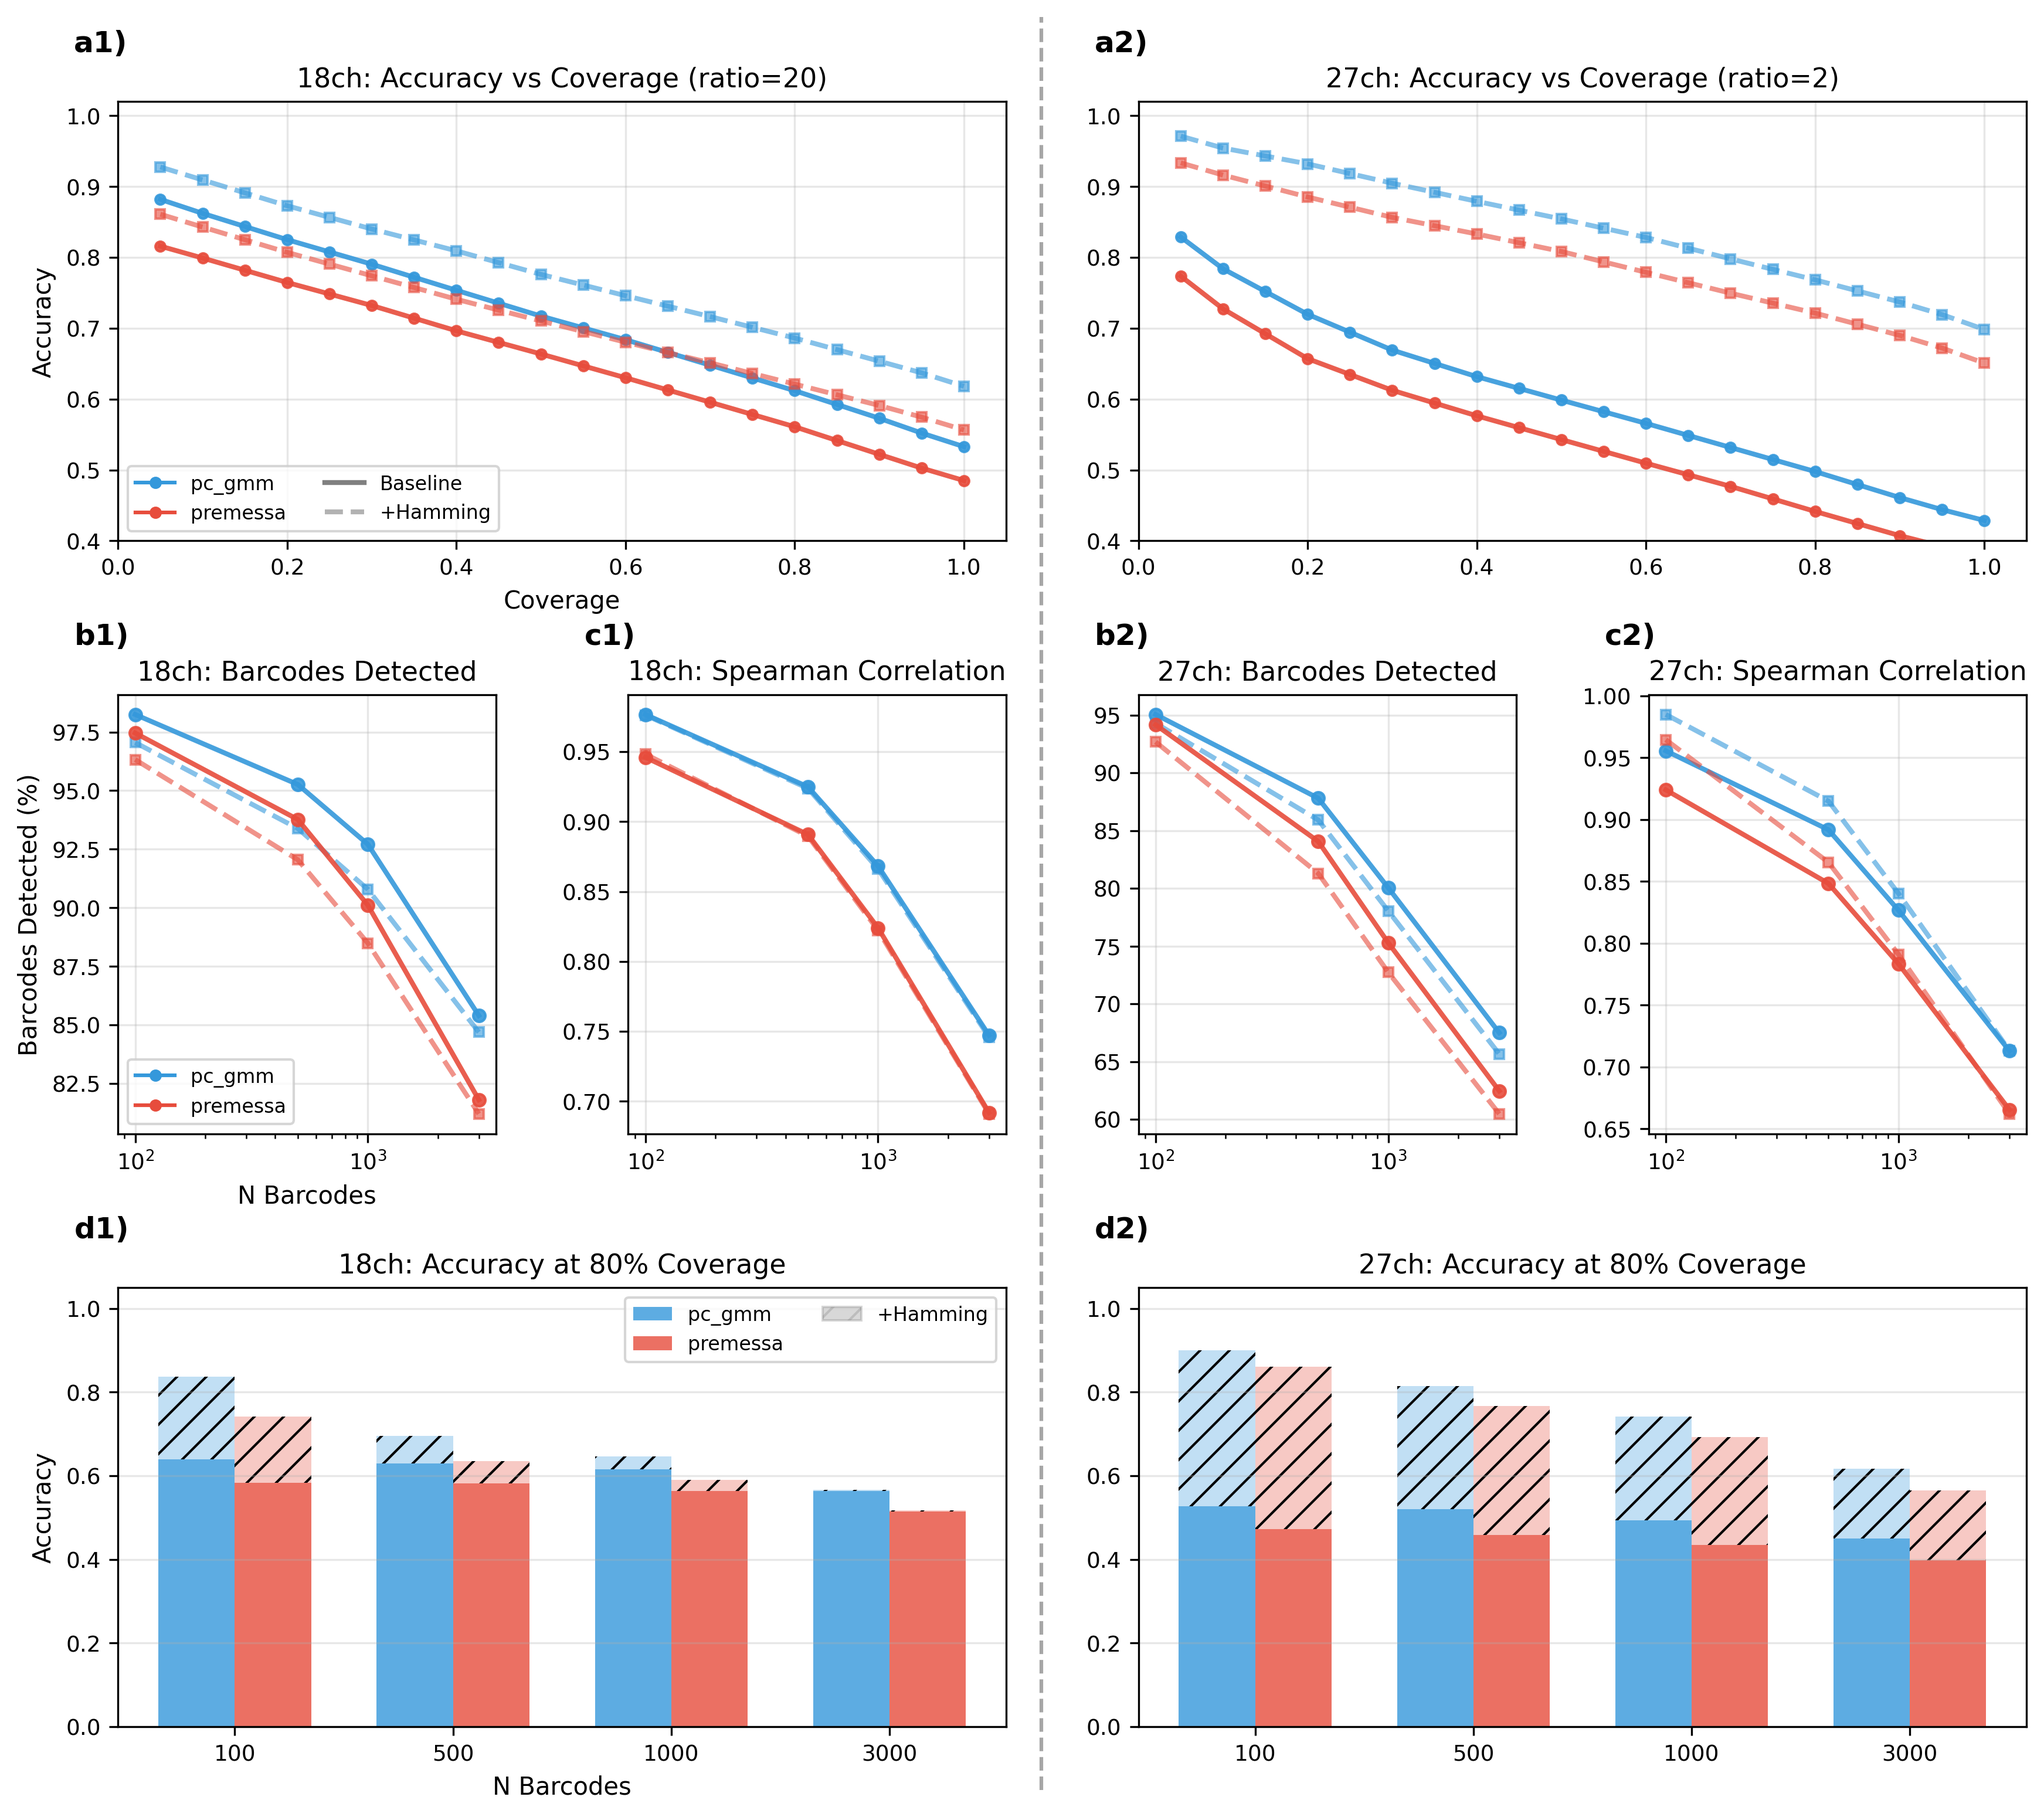
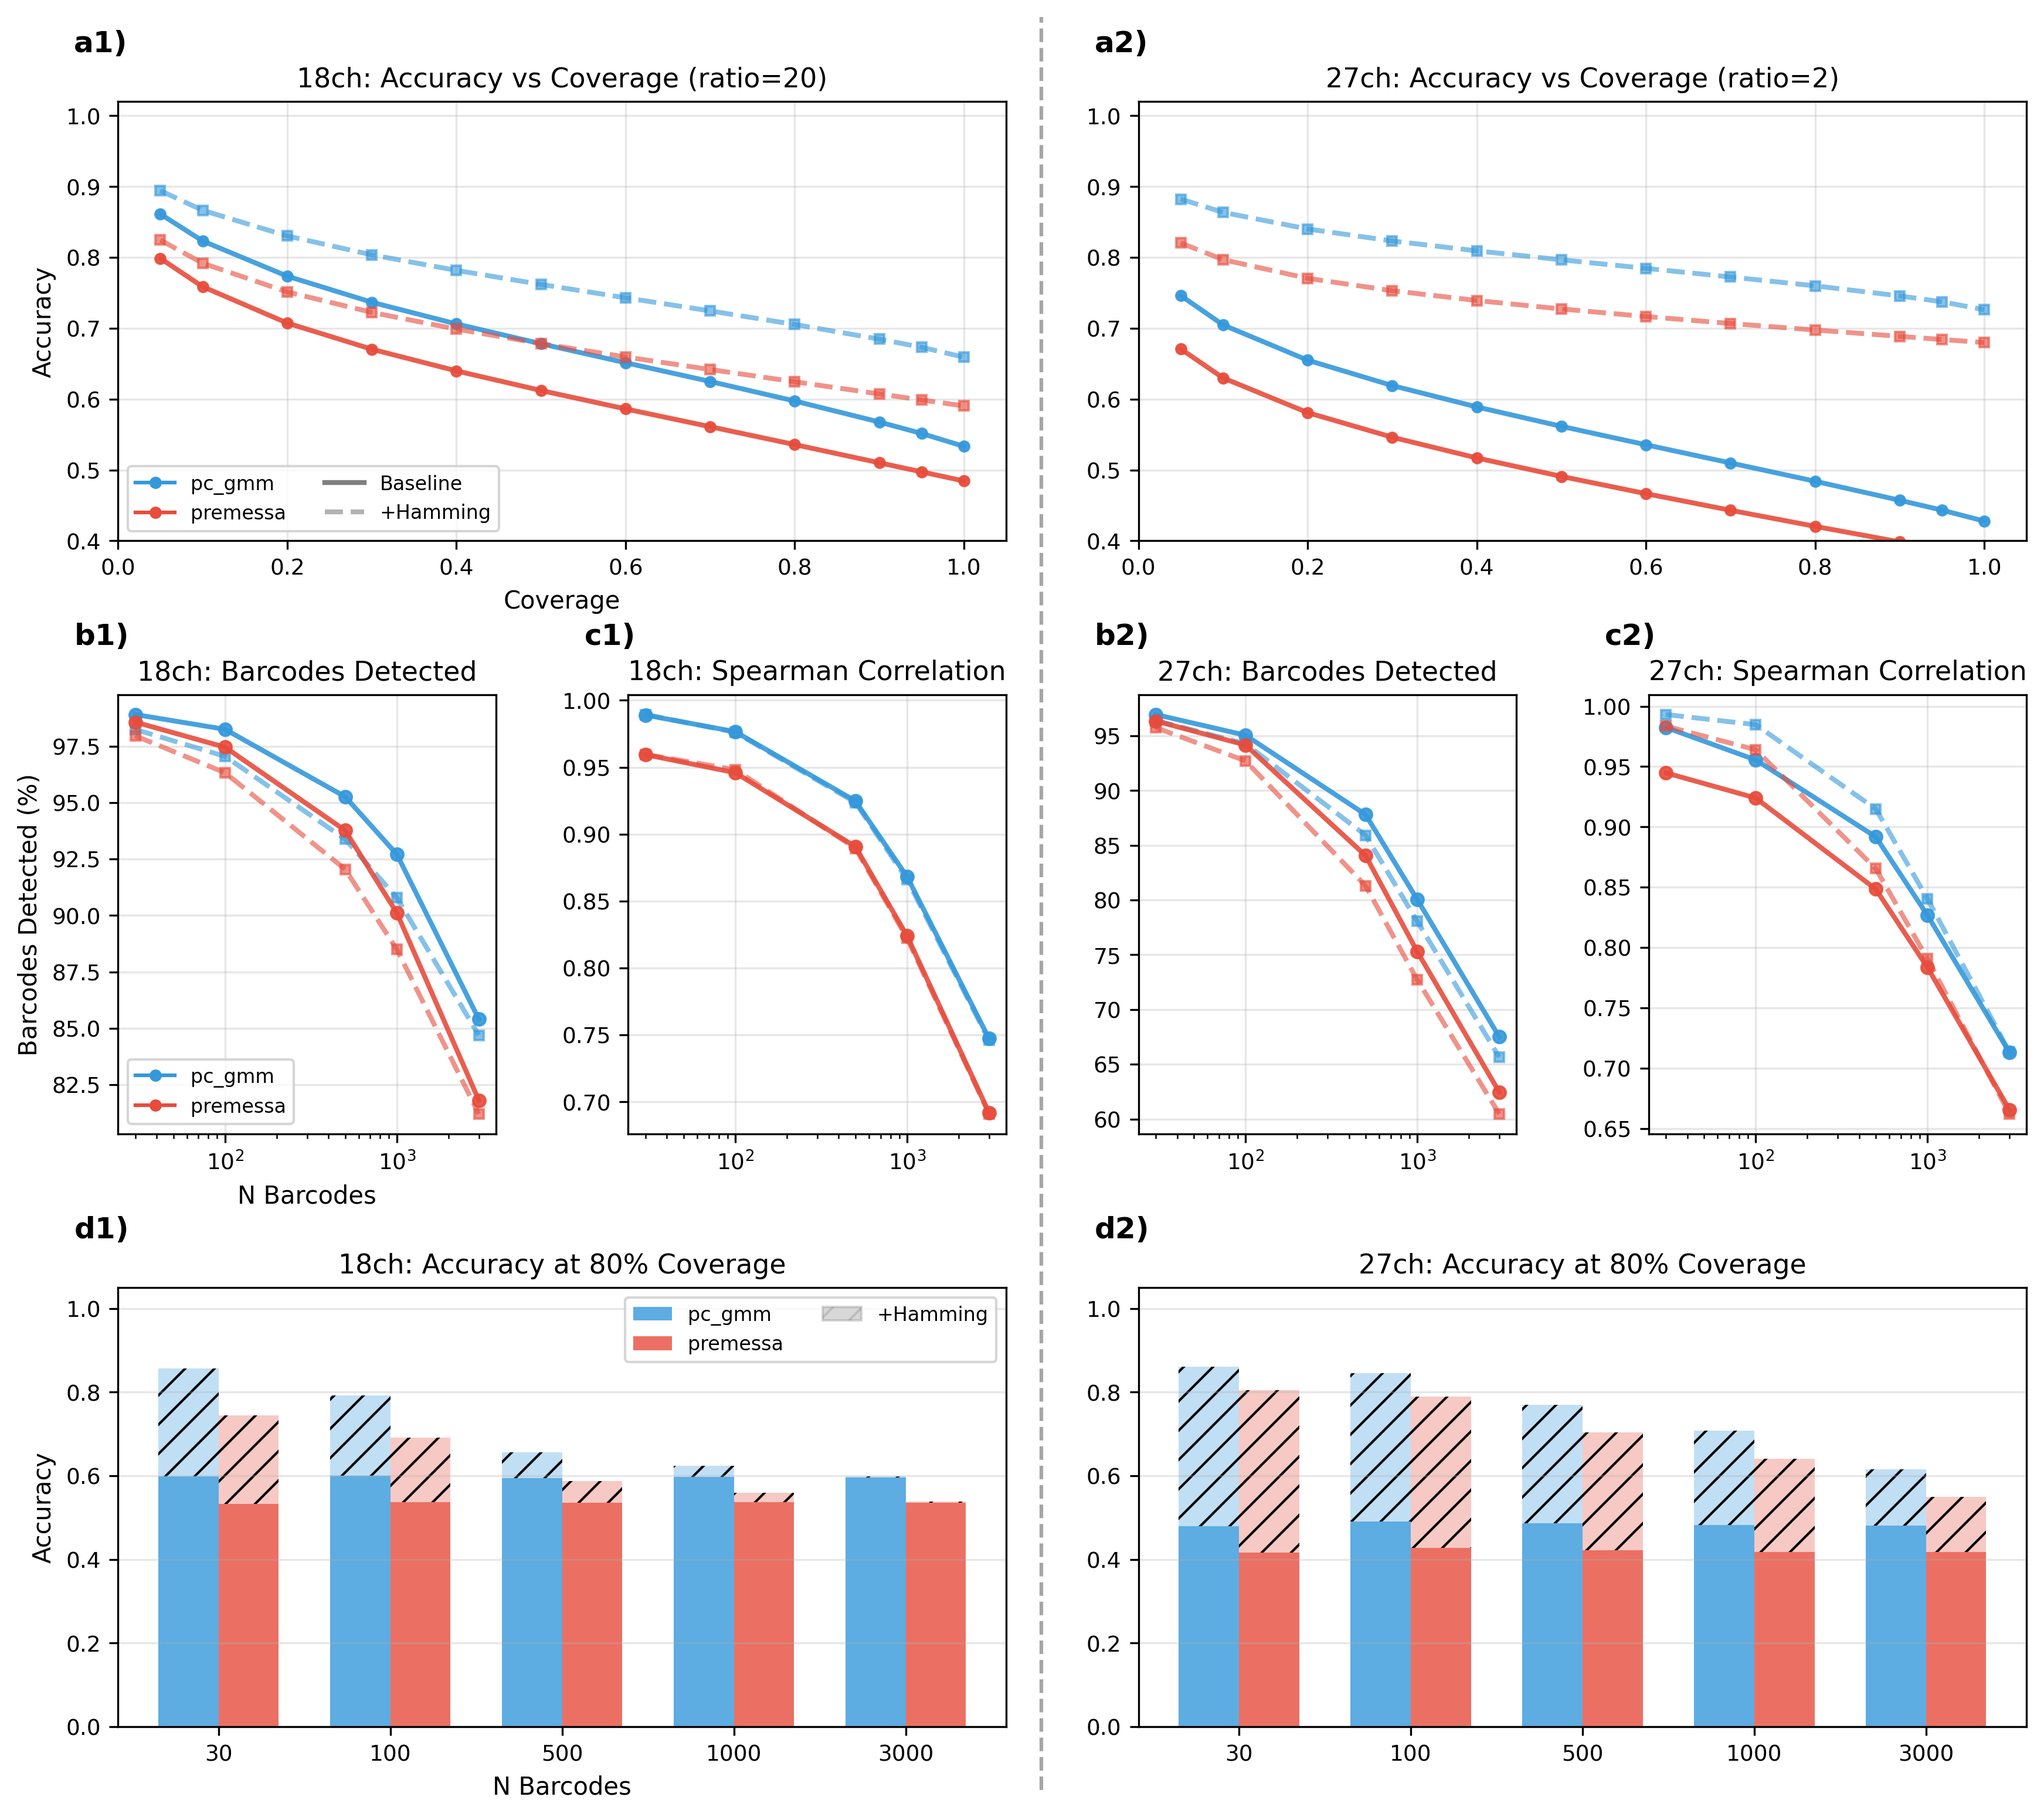
Refactor benchmark and plotting for new API

diff --git a/docs/tutorials/hamming_guidelines.md b/docs/tutorials/hamming_guidelines.md
@@ -123,7 +123,7 @@ Performance was evaluated on simulated datasets with known ground truth.
 :align: center
 :width: 100%
 
-Message passing performance summary across simulations. Left panels show 18-channel simulations; right panels show 27-channel simulations. **a)** F1 improvement over baseline. **b)** Barcodes detected. **c)** Spearman correlation. **d)** Beneficial vs Harmful remaps heatmap: beneficial (above zero) vs harmful (below zero) remappings across sublibrary sizes and ratio settings.
+Message passing performance summary across simulations. Left panels show 18-channel simulations; right panels show 27-channel simulations. **a1, a2)** ΔF1 heatmap: F1 improvement over baseline across sublibrary sizes and ratio settings. **b1, b2)** B/H ratio heatmap: beneficial-to-harmful remap ratio (log scale); values >1 indicate more beneficial than harmful remaps. **c1, c2)** Change in percentage of barcodes detected. **d1, d2)** Change in Spearman correlation. **e1, e2)** Beneficial (solid bars, positive) vs harmful (hatched bars, negative) remap counts.
 ```
 
 Performance strongly depends on sublibrary size. The 27-channel (2M library) configuration is much safer across all metrics.
@@ -134,7 +134,7 @@ Performance strongly depends on sublibrary size. The 27-channel (2M library) con
 :align: center
 :width: 100%
 
-Comparison of message passing and sphere methods. Left panels show 18-channel simulations (ratio=20); right panels show 27-channel simulations (ratio=2). **a)** F1 improvement. **b)** Beneficial vs Harmful remaps.
+Comparison of message passing and sphere methods. Left panels show 18-channel simulations (ratio=20); right panels show 27-channel simulations (ratio=2). **a1, a2)** ΔF1: F1 improvement over baseline. **b1, b2)** B/H ratio: beneficial-to-harmful remap ratio (log scale). **c1, c2)** Beneficial (solid bars, positive) vs harmful (hatched bars, negative) remap counts.
 ```
 
 The two methods show similar performance, with message passing slightly better overall.

diff --git a/docs/tutorials/method_comparison.md b/docs/tutorials/method_comparison.md
@@ -103,7 +103,7 @@ Coverage-accuracy curves show accuracy (fraction of correctly assigned cells amo
 :align: center
 :width: 100%
 
-Method comparison in bimodal regime (n_barcodes > 30). Left panels show 18-channel simulations; right panels show 27-channel simulations. **a1, a2)** Coverage-accuracy curves averaged across sublibrary sizes; cells ranked by raw confidence score. Solid lines show baseline, dashed lines show results after Hamming clustering. **b1, b2)** Percentage of true barcodes detected as a function of sublibrary size. **c1, c2)** Spearman correlation between predicted and true barcode counts. **d1, d2)** Accuracy at 80% coverage.
+Method comparison in bimodal regime (n_barcodes >= 30). Left panels show 18-channel simulations; right panels show 27-channel simulations. **a1, a2)** Coverage-accuracy curves averaged across sublibrary sizes; cells ranked by raw confidence score. Solid lines show baseline, dashed lines show results after Hamming clustering. **b1, b2)** Percentage of true barcodes detected as a function of sublibrary size. **c1, c2)** Spearman correlation between predicted and true barcode counts. **d1, d2)** Accuracy at 80% coverage.
 ```
 
 PC-GMM consistently outperforms PreMessa across all metrics in the bimodal regime.
